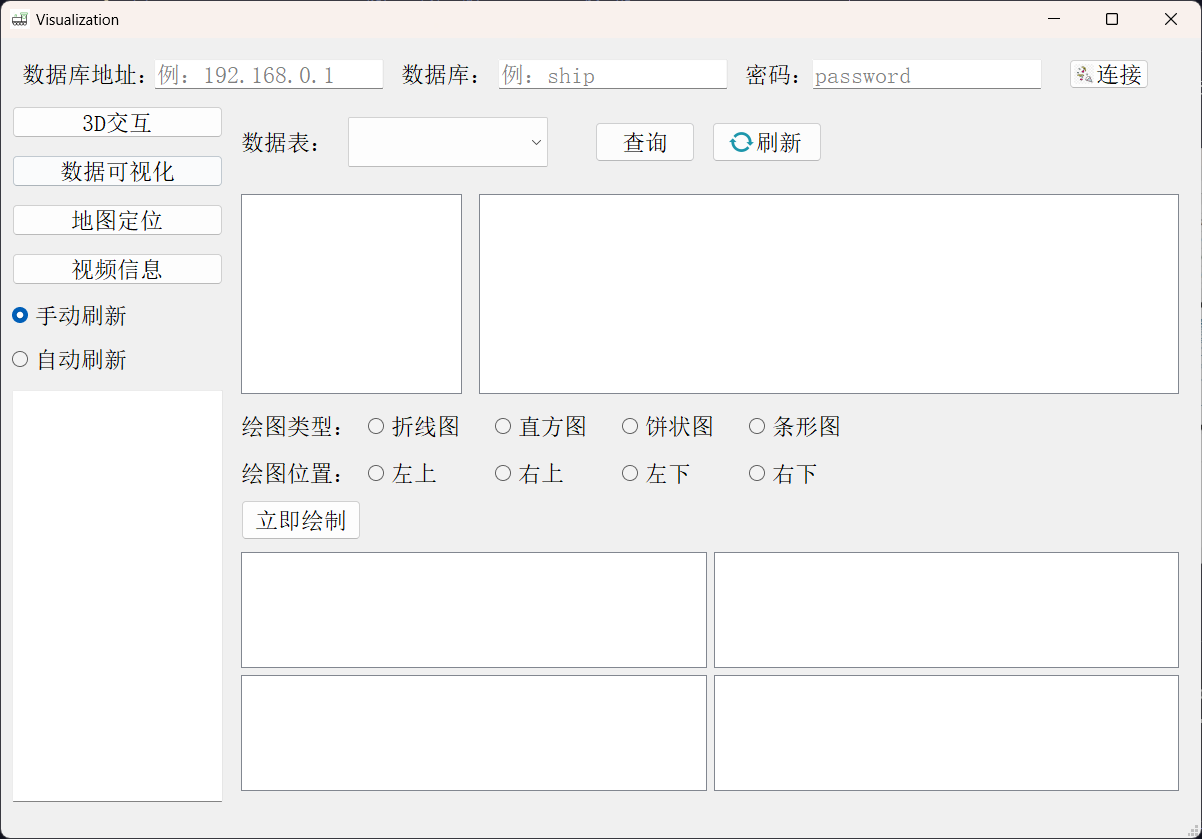
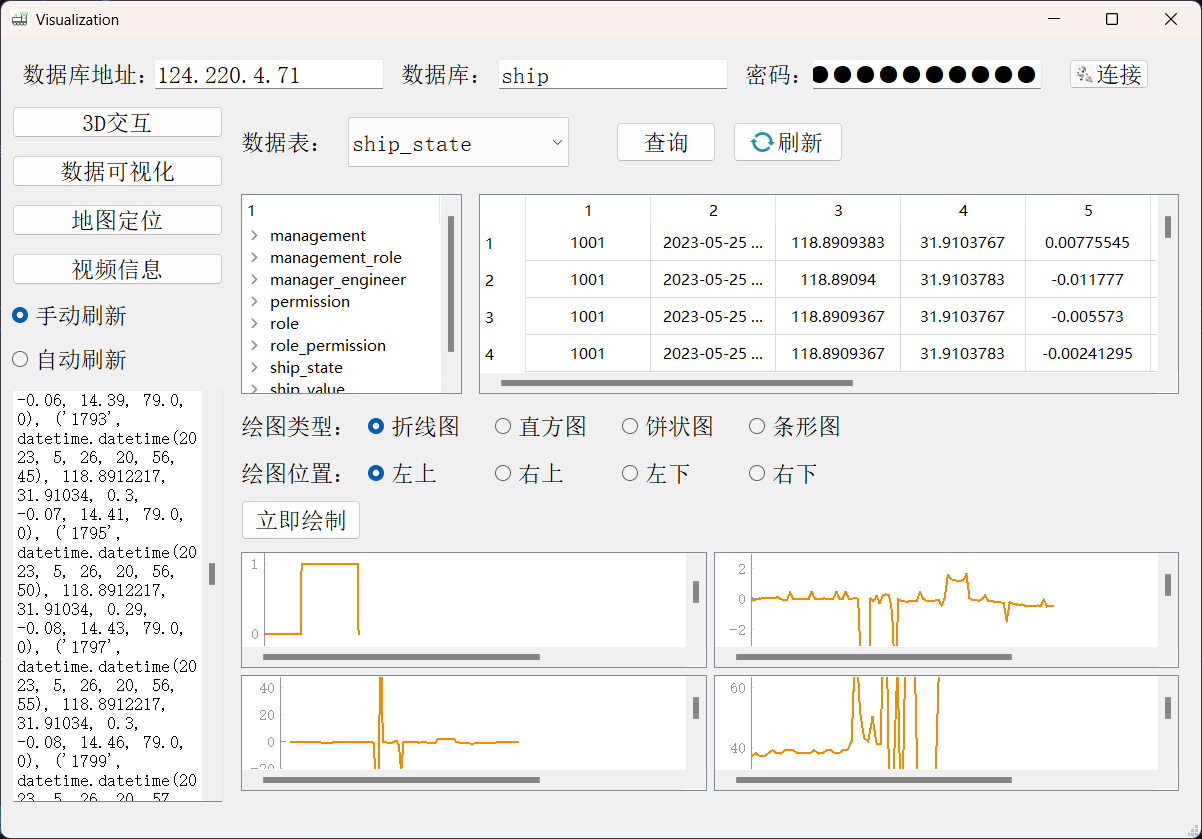
完成矩阵曲线中折线图全部功能

diff --git a/spark.py b/spark.py
@@ -20,6 +20,10 @@ class MyWindow(QMainWindow, Ui_MainWindow):
         self.isconnect = False  # 初始化数据库连接状态
         self.autoupdate = False # 初始化自动刷新状态
         self.graphics_scene = QGraphicsScene()
+        self.graphics_scene_1 = QGraphicsScene()
+        self.graphics_scene_2 = QGraphicsScene()
+        self.graphics_scene_3 = QGraphicsScene()
+        self.graphics_scene_4 = QGraphicsScene()        
         self.timer = QTimer()   # 创建定时器对象
         self.count = 0  # 计数器
         self.timer.timeout.connect(self.timeEvent)  # 将定时器的timeout信号连接到timeEvent方法上
@@ -47,6 +51,7 @@ class MyWindow(QMainWindow, Ui_MainWindow):
         self.radioButton_3.toggled.connect(self.Pos_curve)
         self.radioButton_4.toggled.connect(self.Pos_curve)
         self.radioButton_5.toggled.connect(self.Pos_curve)
+        self.pushButton_6.clicked.connect(self.Matrix_curve)
 
         # 创建 QTimer 定时器，每隔一定时间执行 update_data 函数
         self.timer = QTimer(self)
@@ -55,6 +60,103 @@ class MyWindow(QMainWindow, Ui_MainWindow):
         self.timer = QTimer(self)   # 创建定时器对象
         self.timer.timeout.connect(self.Gesture)
         self.timer.start(5000)  # 设置时间间隔为5秒（单位：毫秒）
+
+    def getSelectedPath(self, index):
+        # 获取选中项的文本
+        text = self.treeView.model().data(index)
+
+        # 如果选中项没有父项，则返回该项的文本
+        if not index.parent().isValid():
+            return [text]
+
+        # 递归地向上遍历，获取每一级目录的名称
+        parent_texts = self.getSelectedPath(index.parent())
+        parent_texts.append(text)
+        return parent_texts
+
+    # 绘图矩阵
+    def Matrix_curve(self):
+        self.max_rows = 100  # 返回最多记录数
+        # 获取treeview中选中的表名和列名
+        # 获取当前选中项的索引
+        self.selection_model = self.treeView.selectionModel()
+        index = self.selection_model.currentIndex()
+        # 获取选中项的文本
+        text = self.treeView.model().data(index)
+        # 如果选中项没有父项，则返回该项的文本
+        if not index.parent().isValid():
+            return [text]
+        # 递归地向上遍历，获取每一级目录的名称
+        parent_texts = self.getSelectedPath(index.parent())
+        parent_texts.append(text)
+        self.table_name = parent_texts[0]
+        self.column_name = parent_texts[1]
+        if not self.isconnect:
+            self.isconnect = True  # 设置数据库连接状态
+            # 获取文本框中的内容
+            self.host = self.lineEdit.text()    # 获取数据库地址
+            self.database = self.lineEdit_2.text()  # 获取数据库名
+            self.password = self.lineEdit_3.text()  # 获取密码
+            # 创建数据库连接
+            self.conn = pymysql.connect(
+                host = self.host,         # 连接主机, 默认127.0.0.1 
+                user = 'root',            # 用户名
+                passwd = self.password,   # 密码
+                port = 3306,              # 端口，默认为3306
+                db = self.database,       # 数据库名称
+                charset = 'utf8'          # 字符编码
+            )
+            self.cursor = self.conn.cursor() # 生成游标对象 cursor
+            # 查询数据库中对应列的数据
+            self.query = f"SELECT {self.column_name} FROM {self.table_name} LIMIT {self.max_rows}"
+            self.cursor.execute(self.query)
+            self.graph_data = self.cursor.fetchall()
+            self.isconnect = False # 关闭数据库连接释放资源
+            self.cursor.close() 
+            self.conn.close()
+            # 将数据转换为列表
+            self.data_list = [row[0] for row in self.graph_data]
+
+            if self.radioButton_7.isChecked() & self.radioButton_10.isChecked():  # 左上折线图
+                self.plot_widget_1 = pg.PlotWidget()
+                self.graphics_scene_1.clear()
+                self.leftup = self.plot_widget_1.plot(self.data_list)
+                self.pen = pg.mkPen(color='#f38b00', width=2)
+                self.leftup.setPen(self.pen)
+                self.plot_widget_1.setBackground('#ffffff') # 设置背景颜色
+                self.graphics_scene_1.addWidget(self.plot_widget_1)
+                self.graphicsView_2.setScene(self.graphics_scene_1)
+            
+            if self.radioButton_7.isChecked() & self.radioButton_11.isChecked():  # 右上折线图
+                self.plot_widget_2 = pg.PlotWidget()
+                self.graphics_scene_2.clear()
+                self.rightup = self.plot_widget_2.plot(self.data_list)
+                self.pen = pg.mkPen(color='#f38b00', width=2)
+                self.rightup.setPen(self.pen)
+                self.plot_widget_2.setBackground('#ffffff') # 设置背景颜色
+                self.graphics_scene_2.addWidget(self.plot_widget_2)
+                self.graphicsView_3.setScene(self.graphics_scene_2)
+            
+            if self.radioButton_7.isChecked() & self.radioButton_12.isChecked():  # 左下折线图
+                self.plot_widget_3 = pg.PlotWidget()
+                self.graphics_scene_3.clear()
+                self.leftdown = self.plot_widget_3.plot(self.data_list)
+                self.pen = pg.mkPen(color='#f38b00', width=2)
+                self.leftdown.setPen(self.pen)
+                self.plot_widget_3.setBackground('#ffffff') # 设置背景颜色
+                self.graphics_scene_3.addWidget(self.plot_widget_3)
+                self.graphicsView_4.setScene(self.graphics_scene_3)
+
+            if self.radioButton_7.isChecked() & self.radioButton_13.isChecked():  # 右下折线图
+                self.plot_widget_4 = pg.PlotWidget()
+                self.graphics_scene_4.clear()
+                self.rightdown = self.plot_widget_4.plot(self.data_list)
+                self.pen = pg.mkPen(color='#f38b00', width=2)
+                self.rightdown.setPen(self.pen)
+                self.plot_widget_4.setBackground('#ffffff')
+                self.graphics_scene_4.addWidget(self.plot_widget_4)
+                self.graphicsView_5.setScene(self.graphics_scene_4)
+
 
     # XYZ坐标曲线
     def Pos_curve(self):
@@ -124,8 +226,8 @@ class MyWindow(QMainWindow, Ui_MainWindow):
                 self.curve_yaw.setVisible(False)
 
             self.plot_widget.setBackground('#ffffff') # 设置背景颜色
-            self.graphics_scene.addWidget(self.plot_widget)
-            self.graphicsView.setScene(self.graphics_scene)
+            self.graphics_scene.addWidget(self.plot_widget) # 将PlotWidget添加到QGraphicsScene中
+            self.graphicsView.setScene(self.graphics_scene) # 将QGraphicsScene添加到QGraphicsView中
             # 关闭数据库连接释放资源
             self.isconnect = False
             self.cursor.close() 
@@ -169,8 +271,6 @@ class MyWindow(QMainWindow, Ui_MainWindow):
                     self.model.setItem(row_num, col_num, item)
             # 设置数据模型到 QTableView
             self.tableView.setModel(self.model)
-
-    
     
     #  定时器调用的函数，用于更新3D模型姿态
     def Gesture(self):
